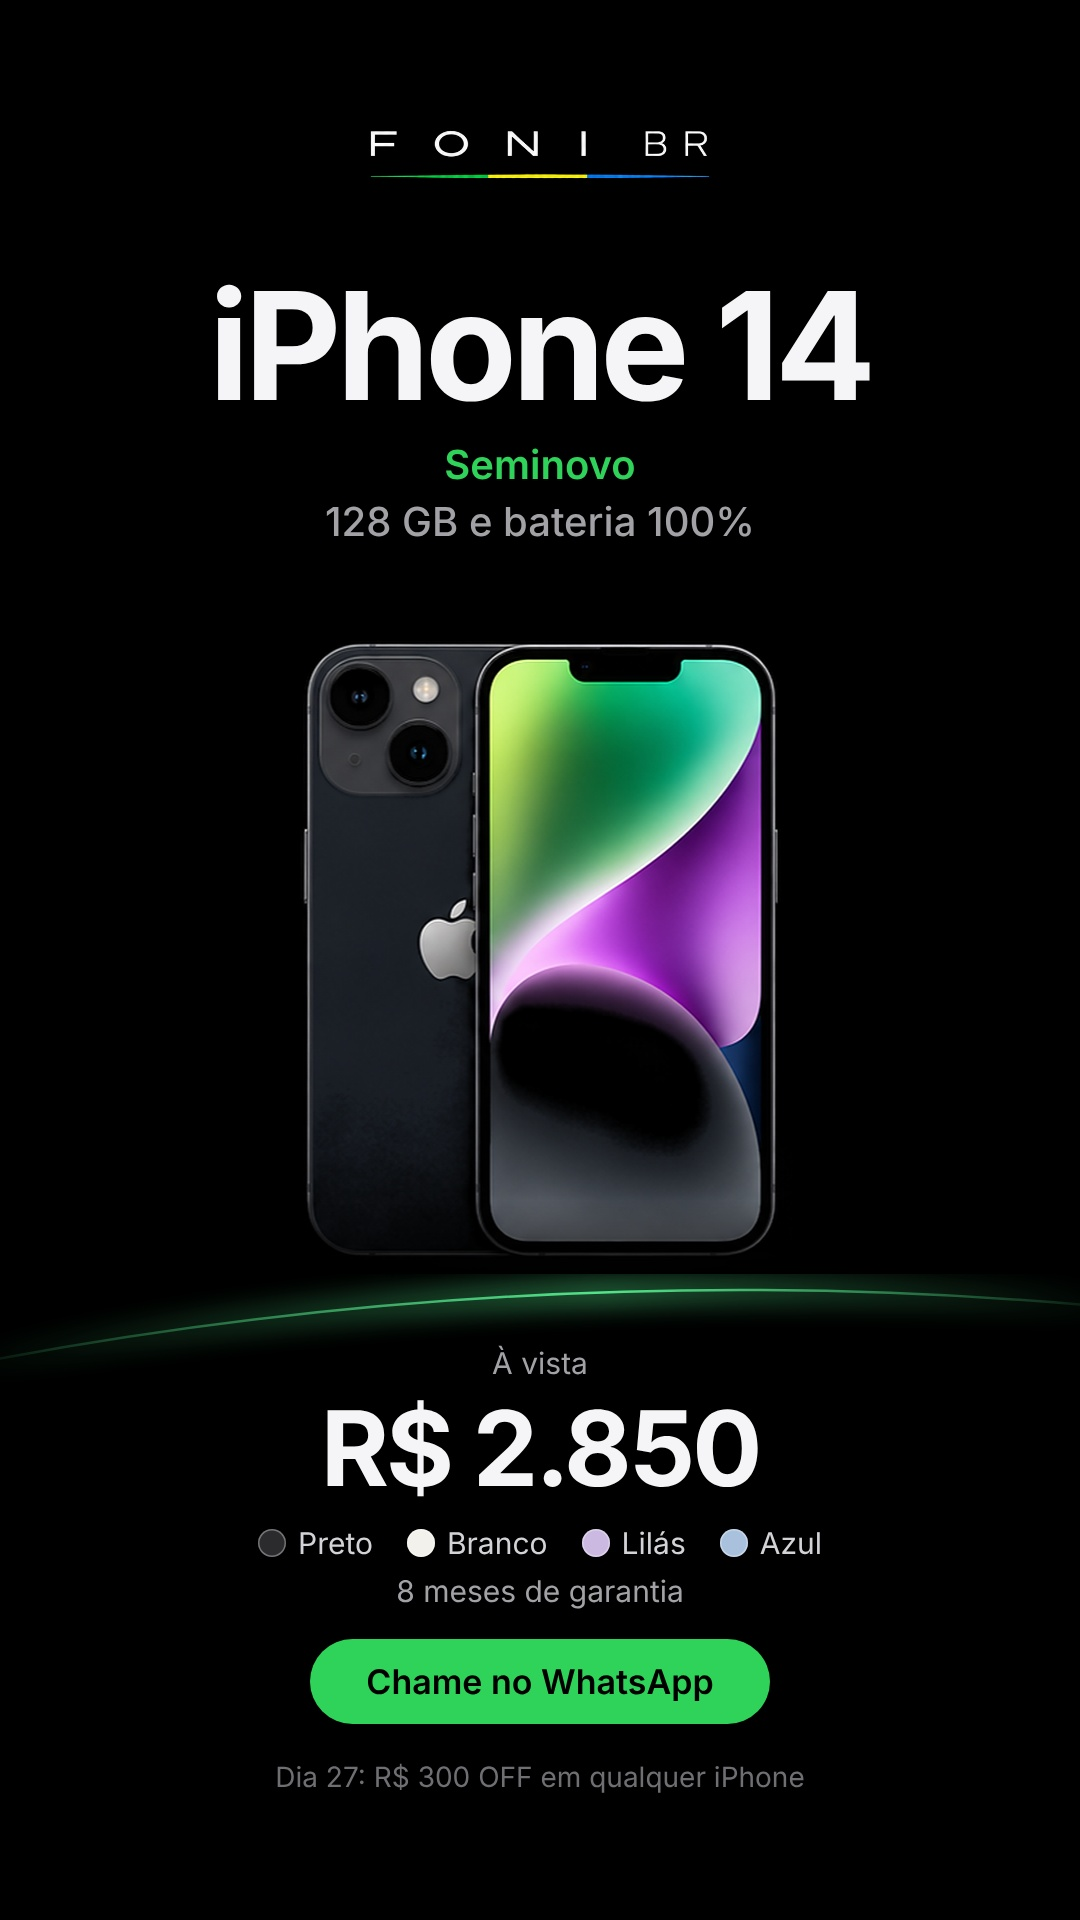
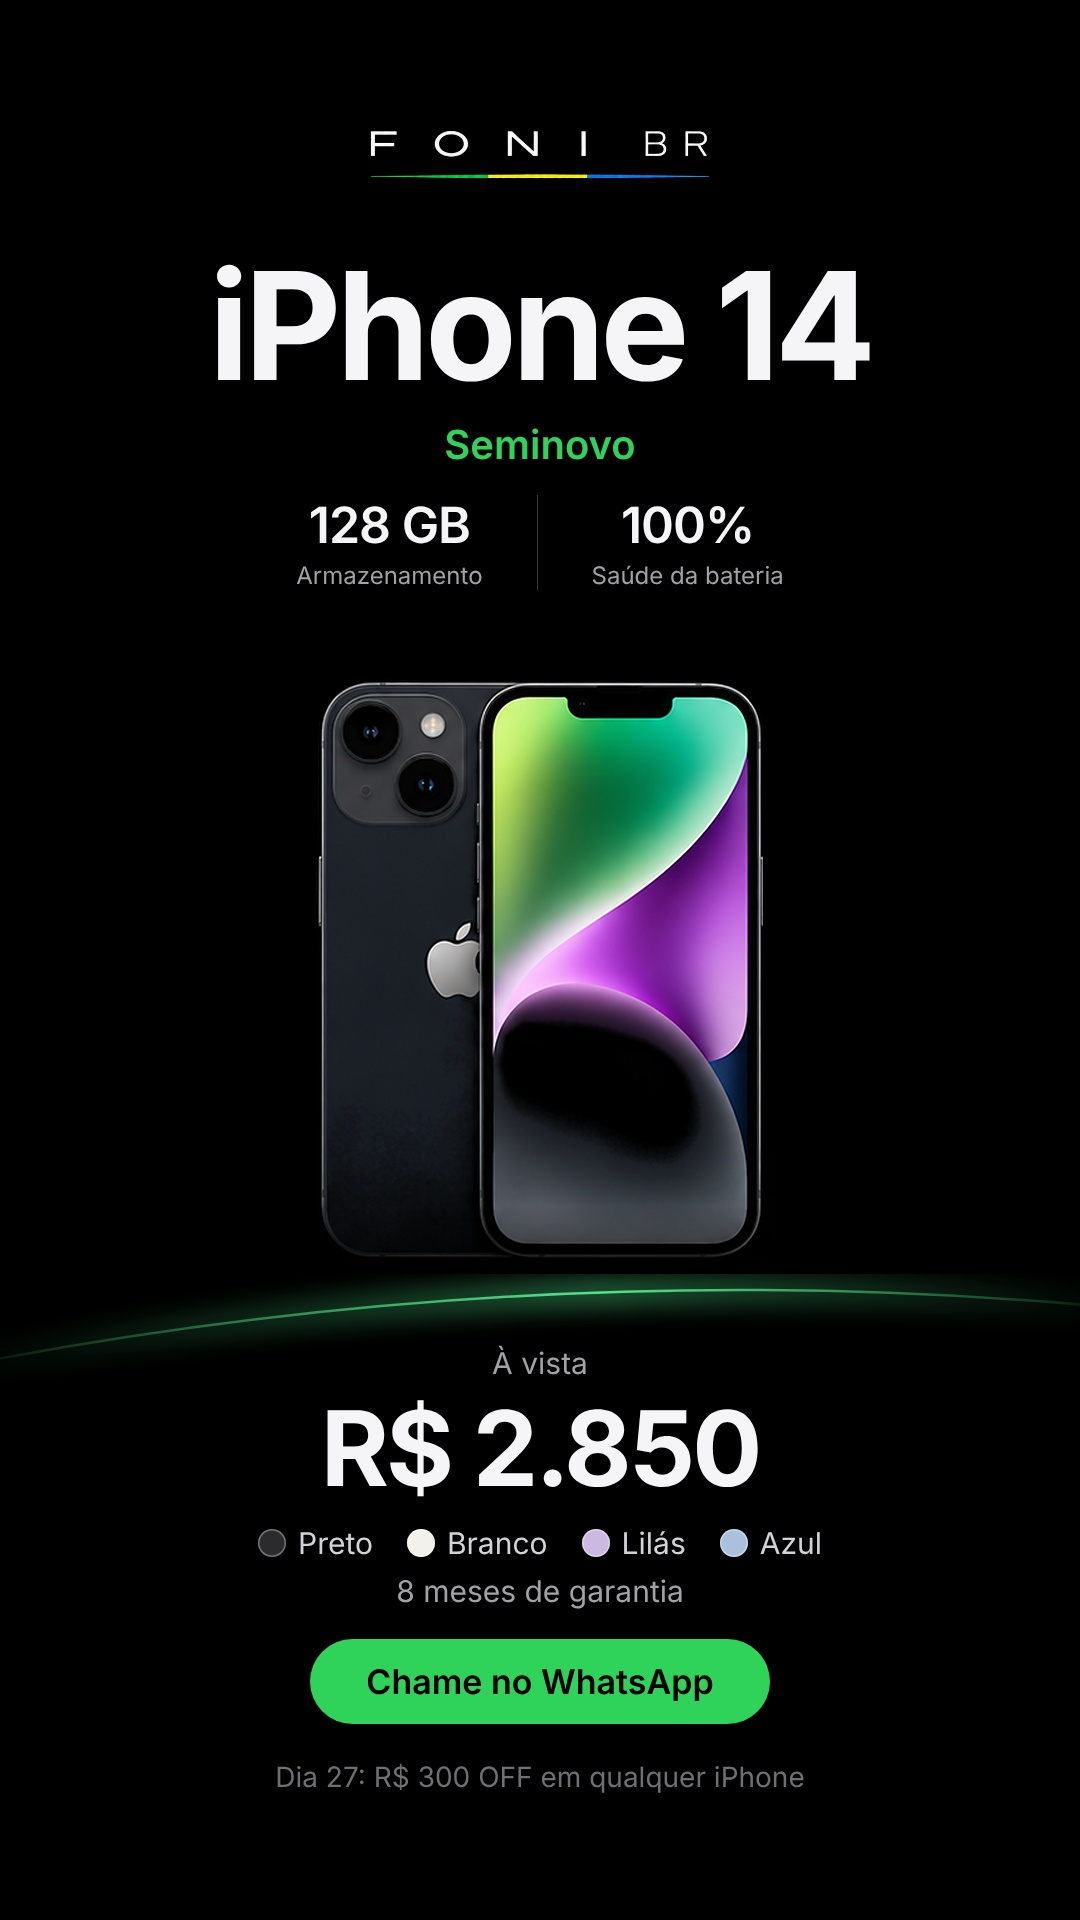
Anúncio de produto: armazenamento e saúde da bateria em blocos (valor + rótulo)
Claude-Session: https://claude.ai/code/session_019vjRdqEKRKmJkiD9USJGwJ

Changed region(s): [[0.1833, 0.125, 0.7333, 0.6562], [0.6722, 0.125, 0.825, 0.2188]]

diff --git a/ferramentas/anuncio_produto/gerar.py b/ferramentas/anuncio_produto/gerar.py
@@ -2,7 +2,7 @@
 
 Story 1080x1920, tudo centralizado:
   logo grande no alto · nome do modelo gigante · condição em verde (Seminovo/Novo)
-  · specs em cinza · UM aparelho grande no centro · linha verde como "palco" sob o aparelho
+  · armazenamento e saúde da bateria em dois blocos (valor + rótulo) · UM aparelho grande no centro · linha verde como "palco" sob o aparelho
   · "À vista" + preço forte · bolinhas de cor com o nome · garantia em linha própria · botão verde "Chame no WhatsApp"
   · promoção discreta no rodapé. Sem ponto final nas frases. Rodapé livre (campo de resposta do story).
 
@@ -11,7 +11,7 @@ transparência (o aparelho mantém as cores originais) e a ampliação é feita 
 Nunca escurecer a foto inteira para "pretear" o fundo: isso mata a qualidade do aparelho.
 
 Uso:
-  python3 gerar.py --modelo "iPhone 14" --spec "128 GB e bateria 100%" --preco 2850 \
+  python3 gerar.py --modelo "iPhone 14" --memoria "128 GB" --bateria "100%" --preco 2850 \
       --cores "Preto, Branco, Lilás ou Azul" --foto ../../produtos/iphone-14/iphone14_preto.png \
       --saida ../../posts/AAAA-MM-DD/foni_story_produto_iphone14.jpg
 Preço, cores e bateria: sempre de estoque/precos.md (não inventar).
@@ -30,7 +30,7 @@ CORES = {"preto": "#2b2b2e", "branco": "#f2f1ec", "white": "#f2f1ec", "rosa": "#
          "verde": "#b9d9c3", "lilás": "#cbb9e2", "lavender": "#cbb9e2", "amarelo": "#f3e08a", "vermelho": "#d0202e",
          "dourado": "#e9d4a9", "prata": "#e3e4e5", "silver": "#e3e4e5", "roxo": "#5d4b70", "laranja": "#f08a3c",
          "titânio natural": "#bab4a9", "titânio deserto": "#c9b49b", "glacier": "#dfe8ee", "burgundy": "#6e1f2b"}
-FOTO_ALT = 660  # altura do aparelho na arte (px)
+FOTO_ALT = 620  # altura do aparelho na arte (px)
 
 
 def preparar_foto(caminho, altura=FOTO_ALT):
@@ -55,7 +55,7 @@ def chips(cores):
     return "".join(f'<span class="chip"><i style="background:{CORES.get(n.lower(), "#8e8e93")}"></i>{n}</span>' for n in nomes)
 
 
-def html(modelo, cond, spec, preco, cores, foto_uri, promo, garantia):
+def html(modelo, cond, memoria, bateria, preco, cores, foto_uri, promo, garantia):
     gar_div = f'<div class="gar">{garantia}</div>' if garantia else ""
     palco = luz("base", H, .9).replace(f"M-60 {H-200} Q540 {H-340} 1140 {H-260}", "M-60 1370 Q540 1250 1140 1310")
     promo_div = f'<div class="promo">{promo}</div>' if promo else ""
@@ -64,11 +64,14 @@ def html(modelo, cond, spec, preco, cores, foto_uri, promo, garantia):
 body{{width:1080px;height:{H}px;background:#000;color:#F5F5F7;font-family:'Inter',sans-serif;overflow:hidden;position:relative;-webkit-font-smoothing:antialiased;text-align:center}}
 .glow{{position:absolute;left:0;top:0}}
 .logo{{position:absolute;top:120px;left:0;right:0}} .logo img{{width:360px}}
-.top{{position:absolute;top:255px;left:0;right:0}}
+.top{{position:absolute;top:235px;left:0;right:0}}
 h1{{font-size:150px;font-weight:700;letter-spacing:-5px}}
 .eb{{font-size:40px;font-weight:600;color:#2FD35A;margin-top:4px}}
-.sub{{font-size:40px;font-weight:500;color:#A1A1A6;margin-top:8px}}
-.foto{{position:absolute;top:620px;left:50%;transform:translateX(-50%);height:{FOTO_ALT}px;-webkit-mask-image:linear-gradient(#000 88%,transparent)}}
+.specs{{display:flex;justify-content:center;margin-top:26px}}
+.spec{{padding:0 54px}} .spec+.spec{{border-left:1.5px solid #3A3A3C}}
+.spec b{{display:block;font-size:50px;font-weight:600;letter-spacing:-1px}}
+.spec span{{display:block;font-size:24px;color:#A1A1A6;margin-top:6px}}
+.foto{{position:absolute;top:660px;left:50%;transform:translateX(-50%);height:{FOTO_ALT}px;-webkit-mask-image:linear-gradient(#000 88%,transparent)}}
 .base{{position:absolute;top:1345px;left:0;right:0}}
 .de{{font-size:30px;color:#A1A1A6}}
 .preco{{font-size:104px;font-weight:700;letter-spacing:-3px;margin-top:4px}}
@@ -81,7 +84,7 @@ h1{{font-size:150px;font-weight:700;letter-spacing:-5px}}
 </style></head><body>
 {palco}
 <div class="logo"><img src="{LOGO_URI}"></div>
-<div class="top"><h1>{modelo}</h1><div class="eb">{cond}</div><div class="sub">{spec}</div></div>
+<div class="top"><h1>{modelo}</h1><div class="eb">{cond}</div><div class="specs"><div class="spec"><b>{memoria}</b><span>Armazenamento</span></div><div class="spec"><b>{bateria}</b><span>Saúde da bateria</span></div></div></div>
 <img class="foto" src="{foto_uri}">
 <div class="base"><div class="de">À vista</div><div class="preco">{brl(preco)}</div>
 <div class="cores">{chips(cores)}</div>{gar_div}
@@ -105,7 +108,8 @@ def main():
     ap = argparse.ArgumentParser()
     ap.add_argument("--modelo", required=True)
     ap.add_argument("--cond", default="Seminovo")
-    ap.add_argument("--spec", required=True, help='ex.: "128 GB e bateria 100%%"')
+    ap.add_argument("--memoria", required=True, help='ex.: "128 GB"')
+    ap.add_argument("--bateria", required=True, help='ex.: "100%%" ou "87%%+"')
     ap.add_argument("--preco", type=float, required=True)
     ap.add_argument("--cores", required=True, help='use "ou": "Preto ou Azul"')
     ap.add_argument("--garantia", default="8 meses de garantia")
@@ -113,7 +117,7 @@ def main():
     ap.add_argument("--foto", required=True)
     ap.add_argument("--saida", required=True)
     a = ap.parse_args()
-    asyncio.run(render(html(a.modelo, a.cond, a.spec, a.preco, a.cores, preparar_foto(a.foto), a.promo, a.garantia), a.saida))
+    asyncio.run(render(html(a.modelo, a.cond, a.memoria, a.bateria, a.preco, a.cores, preparar_foto(a.foto), a.promo, a.garantia), a.saida))
     print(a.saida)
 
 
